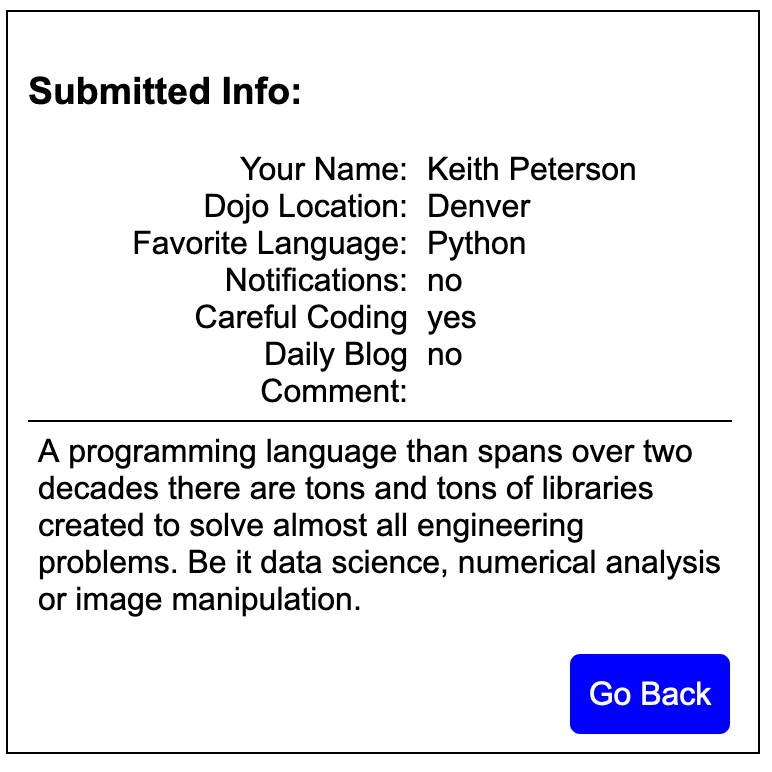
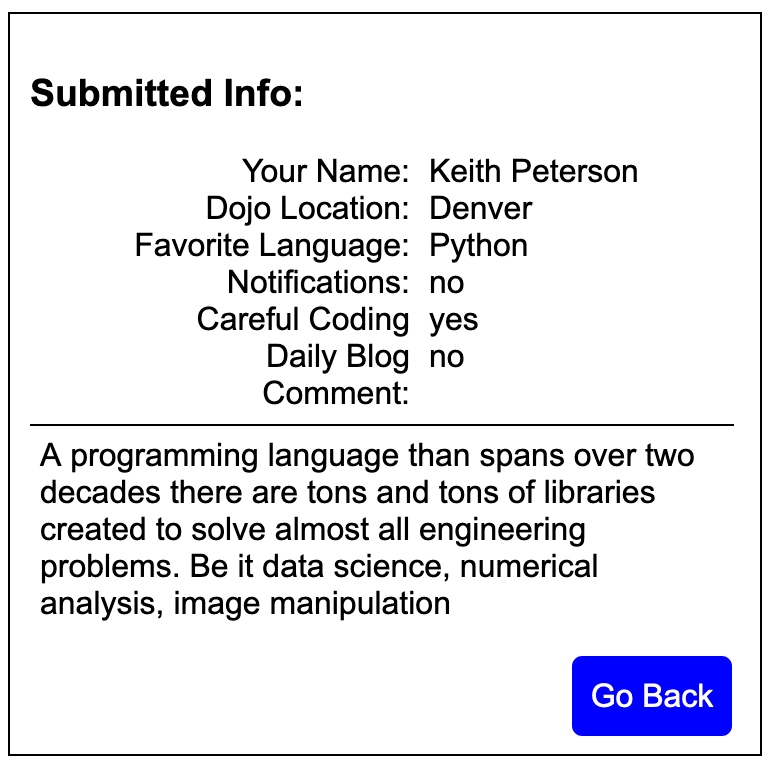
Lessen the space between the comments section on the results page and the inforamtion above it. Recreate images of my finished survey screens.

diff --git a/python_stack/django/django_intro/project_dojo_survey/main/static/css/style.css b/python_stack/django/django_intro/project_dojo_survey/main/static/css/style.css
@@ -13,9 +13,9 @@ form {
     display: inline-block;
     vertical-align: top;
     width: 150px;
-    height: 100px;
+    height: 85px;
     padding-left: 40px;
-    margin-bottom: 5px;
+    margin-bottom: 1px;
     text-align: right;
 }
 
@@ -27,20 +27,20 @@ form {
     display: inline-block;
     vertical-align: top;
     padding-left: 5px;
-    margin-bottom: 5px;
+    margin-bottom: 1px;
     width: 150px;
-    height: 100px;
+    height: 85px;
 }
 
 #comment {
     padding: 5px;
-    margin: 0;
+    margin: 0 0 15px 0;
     width: 342px;
     height: 100px;
 }
 
 #comment_result {
-    margin-top: 30px;
+    margin-top: 50px;
     padding: 5px;
     width: 342px;
     height: 100px;
